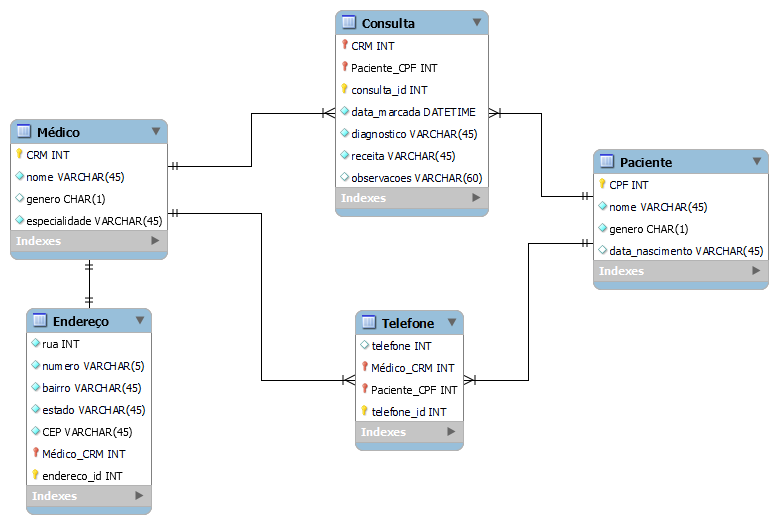
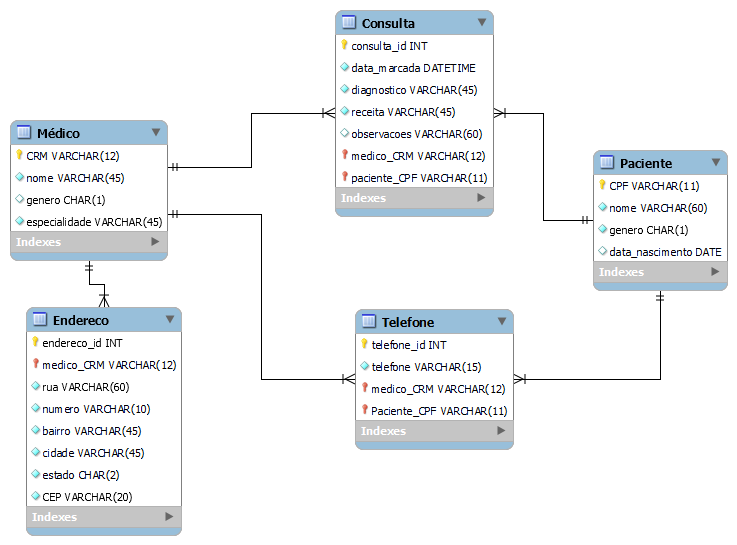
fix: alterando modelagem da clinica medica

diff --git a/Database/aulas/atividade05/README.md b/Database/aulas/atividade05/README.md
@@ -6,53 +6,46 @@ Este projeto é um sistema de gerenciamento de consultas médicas, que permite r
 
 ## Entidades e Atributos
 
-### Entidade: Médico
-- **CRM** (INT, Primary Key): Número de registro no Conselho Regional de Medicina.
-- **Nome** (VARCHAR(60)): Nome do médico.
-- **Gênero** (CHAR(1)): Gênero do médico.
-- **Telefone** (VARCHAR(14)): Telefone do médico.
-- **Endereço**
-  - **Rua** (VARCHAR(60))
-  - **Número** (VARCHAR(10))
-  - **Bairro** (VARCHAR(45))
-  - **Cidade** (VARCHAR(45))
-  - **Estado** (CHAR(2))
-  - **CEP** (VARCHAR(10))
-- **Especialidade** (VARCHAR(45)): Especialidade médica do médico.
+1. **Medico**
+    - **CRM (INT, Primary Key)**: Número de registro no Conselho Regional de Medicina.
+    - **nome (VARCHAR(60), NOT NULL)**: Nome do médico.
+    - **genero (CHAR(1))**: Gênero do médico.
+    - **especialidade (VARCHAR(45), NOT NULL)**: Especialidade médica.
 
-### Entidade: Paciente
-- **CPF** (VARCHAR(11), Primary Key): Número de CPF do paciente.
-- **Nome** (VARCHAR(60)): Nome do paciente.
-- **Gênero** (CHAR(1)): Gênero do paciente.
-- **Telefone** (VARCHAR(14)): Telefone do paciente.
-- **Data de Nascimento** (DATE): Data de nascimento do paciente.
+2. **Paciente**
+    - **CPF (VARCHAR(11), Primary Key)**: Número de CPF do paciente.
+    - **nome (VARCHAR(60), NOT NULL)**: Nome do paciente.
+    - **genero (CHAR(1), NOT NULL)**: Gênero do paciente.
+    - **data_nascimento (DATE)**: Data de nascimento do paciente.
 
-### Entidade: Consulta
-- **Número de Consulta** (INT, Primary Key): Número único da consulta.
-- **Data Marcada** (DATETIME): Data e hora marcadas para a consulta.
-- **Diagnóstico** (VARCHAR(45)): Diagnóstico médico da consulta.
-- **Receita** (VARCHAR(45)): Receita médica prescrita na consulta.
-- **Observações** (VARCHAR(60)): Observações pertinentes da consulta.
-- **Medico_CRM** (INT, Foreign Key): Referência ao médico que realizou a consulta.
-- **Paciente_CPF** (VARCHAR(11), Foreign Key): Referência ao paciente que teve a consulta.
+3. **Consulta**
+    - **consulta_id (INT, Primary Key)**: Identificador único da consulta.
+    - **data_marcada (DATETIME, NOT NULL)**: Data e hora marcada para a consulta.
+    - **diagnostico (VARCHAR(45))**: Diagnóstico médico.
+    - **receita (VARCHAR(45))**: Receita médica prescrita.
+    - **observacoes (VARCHAR(60))**: Observações relevantes da consulta.
+    - **medico_CRM (INT)**: Chave estrangeira referenciando o CRM do médico na tabela Médico.
+    - **paciente_CPF (VARCHAR(11))**: Chave estrangeira referenciando o CPF do paciente na tabela Paciente.
 
-## Relacionamentos
+4. **Telefone**
+    - **telefone_id (INT, Primary Key)**: Identificador único do telefone.
+    - **telefone (VARCHAR(15))**: Número de telefone.
+    - **medico_CRM (INT)**: Chave estrangeira referenciando o CRM do médico na tabela Médico.
+    - **paciente_CPF (VARCHAR(11))**: Chave estrangeira referenciando o CPF do paciente na tabela Paciente.
 
-- Um médico pode realizar várias consultas.
-- Um paciente pode ter várias consultas.
-- Cada consulta é realizada por um médico e é para um paciente.
+5. **Endereco**
+    - **endereco_id (INT, Primary Key)**: Identificador único do endereço.
+    - **rua (VARCHAR(60))**: Nome da rua.
+    - **numero (VARCHAR(10))**: Número do endereço.
+    - **bairro (VARCHAR(45))**: Nome do bairro.
+    - **cidade (VARCHAR(45))**: Nome da cidade.
+    - **estado (CHAR(2))**: Sigla do estado.
+    - **cep (VARCHAR(10))**: CEP do endereço.
+    - **medico_CRM (INT)**: Chave estrangeira referenciando o CRM do médico na tabela Médico.
 
 ## Modelo Entidade-Relacionamento (MER)
 
 ![MER](https://github.com/Eduardo-J-S/FAP-SOFTEX/blob/main/Database/aulas/atividade05/Conceitual_clinica_medica.png)
-
-### Descrição do MER
-
-O MER descreve as relações entre as entidades Médico, Paciente e Consulta. O diagrama mostra que:
-
-- A entidade **Médico** possui atributos como CRM, Nome, Gênero, Telefone, Endereço e Especialidade.
-- A entidade **Paciente** possui atributos como CPF, Nome, Gênero, Telefone e Data de Nascimento.
-- A entidade **Consulta** possui atributos como Número de Consulta, Data Marcada, Diagnóstico, Receita, Observações.
 
 ## Modelo de Entidade-Relacionamento Derivado (DER)
 
@@ -65,5 +58,10 @@ O DER refina o MER e transforma as entidades e relacionamentos em tabelas e colu
 ## Modelo Físico
 
 [SCRIPTS](https://github.com/Eduardo-J-S/FAP-SOFTEX/blob/main/Database/aulas/atividade05/modelo_fisico_clinica_medica.sql)
+
+## Considerações
+- Este sistema permite o registro detalhado de médicos, pacientes, consultas, telefones e endereços.
+- As tabelas estão relacionadas através de chaves estrangeiras para garantir a integridade referencial dos dados.
+- Cada entidade tem seus atributos específicos bem definidos, facilitando a organização e consulta das informações.
 
 
